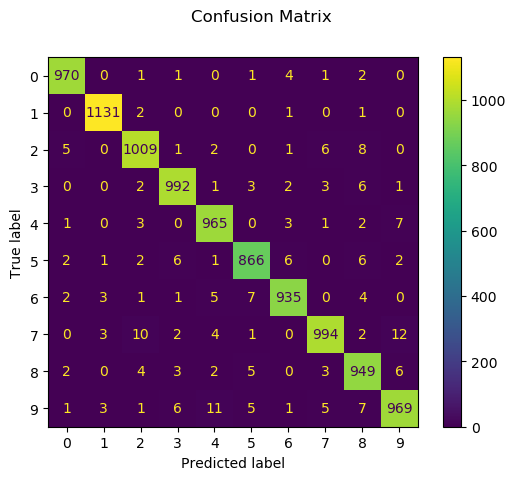
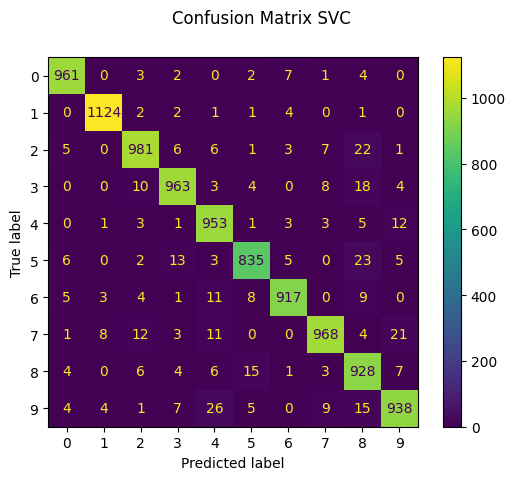
PCA added to KNN

diff --git a/lab4.py b/lab4.py
@@ -18,6 +18,8 @@ from sklearn.pipeline import make_pipeline
 from sklearn.preprocessing import StandardScaler
 from sklearn.model_selection import GridSearchCV
 from sklearn.neighbors import KNeighborsClassifier
+from sklearn.pipeline import Pipeline
+from sklearn.decomposition import PCA
 from skimage import io, segmentation as seg
 from skimage.util import crop
 from skimage.transform import resize
@@ -60,7 +62,7 @@ print('Y_test:  ' + str(test_y.shape))
 # vector classifier on the train samples. The fitted classifier can
 # subsequently be used to predict the value of the digit for the samples
 # in the test subset.
-limit = 60000
+limit = 10000
 # flatten the images
 n_samples = len(train_X)
 data = train_X.reshape((n_samples, -1))
@@ -110,11 +112,67 @@ print(
 # true digit values and the predicted digit values.
 
 disp = metrics.ConfusionMatrixDisplay.from_predictions(test_y[0:limit], predicted)
-disp.figure_.suptitle("Confusion Matrix")
+disp.figure_.suptitle("Confusion Matrix KNN")
 print(f"Confusion matrix:\n{disp.confusion_matrix}")
 matplotlib.pyplot.savefig('KNN_matrix.png', bbox_inches='tight')
 matplotlib.pyplot.show()
 
+################################################################################
+# KNN + PCA pipeline + GridSearch
+
+pipe = Pipeline([
+    ('pca', PCA()),
+    ('clf', KNeighborsClassifier()),
+])
+
+parameters = {
+    'pca__n_components': [2, 3, 4, 5, 6, 7],
+    #'clf__C': [1, 10, 100],
+    }
+
+gs = GridSearchCV(pipe, parameters, cv=2, n_jobs=-1, verbose=1)
+gs.fit(data[0:limit], train_y[0:limit])
+
+print("PCA Best score: %0.3f" % gs.best_score_)
+print("Best parameters set:")
+best_parameters = gs.best_estimator_.get_params()
+for param_name in sorted(parameters.keys()):
+    print("\t%s: %r" % (param_name, best_parameters[param_name]))
+clfPCA = gs.best_estimator_
+# Predict the value of the digit on the test subset
+predicted = clfPCA.predict(label[0:limit])
+###############################################################################
+# Below we visualize the first 4 test samples and show their predicted
+# digit value in the title.
+
+_, axes = matplotlib.pyplot.subplots(nrows=1, ncols=8, figsize=(12, 3))
+for ax, image, prediction in zip(axes, test_X, predicted):
+    ax.set_axis_off()
+    image = image.reshape(28, 28)
+    ax.imshow(image, cmap=matplotlib.pyplot.cm.gray_r, interpolation="nearest")
+    ax.set_title(f"Prediction: {prediction}")
+
+matplotlib.pyplot.savefig('PCA_result.png', bbox_inches='tight')
+###############################################################################
+# :func:`~sklearn.metrics.classification_report` builds a text report showing
+# the main classification metrics.
+
+print(
+    f"Classification report for classifier {clfPCA}:\n"
+    f"{metrics.classification_report(test_y[0:limit], predicted)}\n"
+)
+
+###############################################################################
+# We can also plot a :ref:`confusion matrix <confusion_matrix>` of the
+# true digit values and the predicted digit values.
+
+disp = metrics.ConfusionMatrixDisplay.from_predictions(test_y[0:limit], predicted)
+disp.figure_.suptitle("Confusion Matrix KNN+PCA")
+print(f"Confusion matrix:\n{disp.confusion_matrix}")
+matplotlib.pyplot.savefig('PCA_matrix.png', bbox_inches='tight')
+matplotlib.pyplot.show()
+###############################################################################
+# SVC pipeline
 pipelineSVC = make_pipeline(StandardScaler(), SVC(random_state=1))
 param_grid_svc = {
     'svc__C': [50.0, 75, 100, 125, 150],
@@ -164,7 +222,7 @@ print(
 # true digit values and the predicted digit values.
 
 disp = metrics.ConfusionMatrixDisplay.from_predictions(test_y[0:limit], predicted)
-disp.figure_.suptitle("Confusion Matrix")
+disp.figure_.suptitle("Confusion Matrix SVC")
 print(f"Confusion matrix:\n{disp.confusion_matrix}")
 matplotlib.pyplot.savefig('SVC_matrix.png', bbox_inches='tight')
 matplotlib.pyplot.show()
